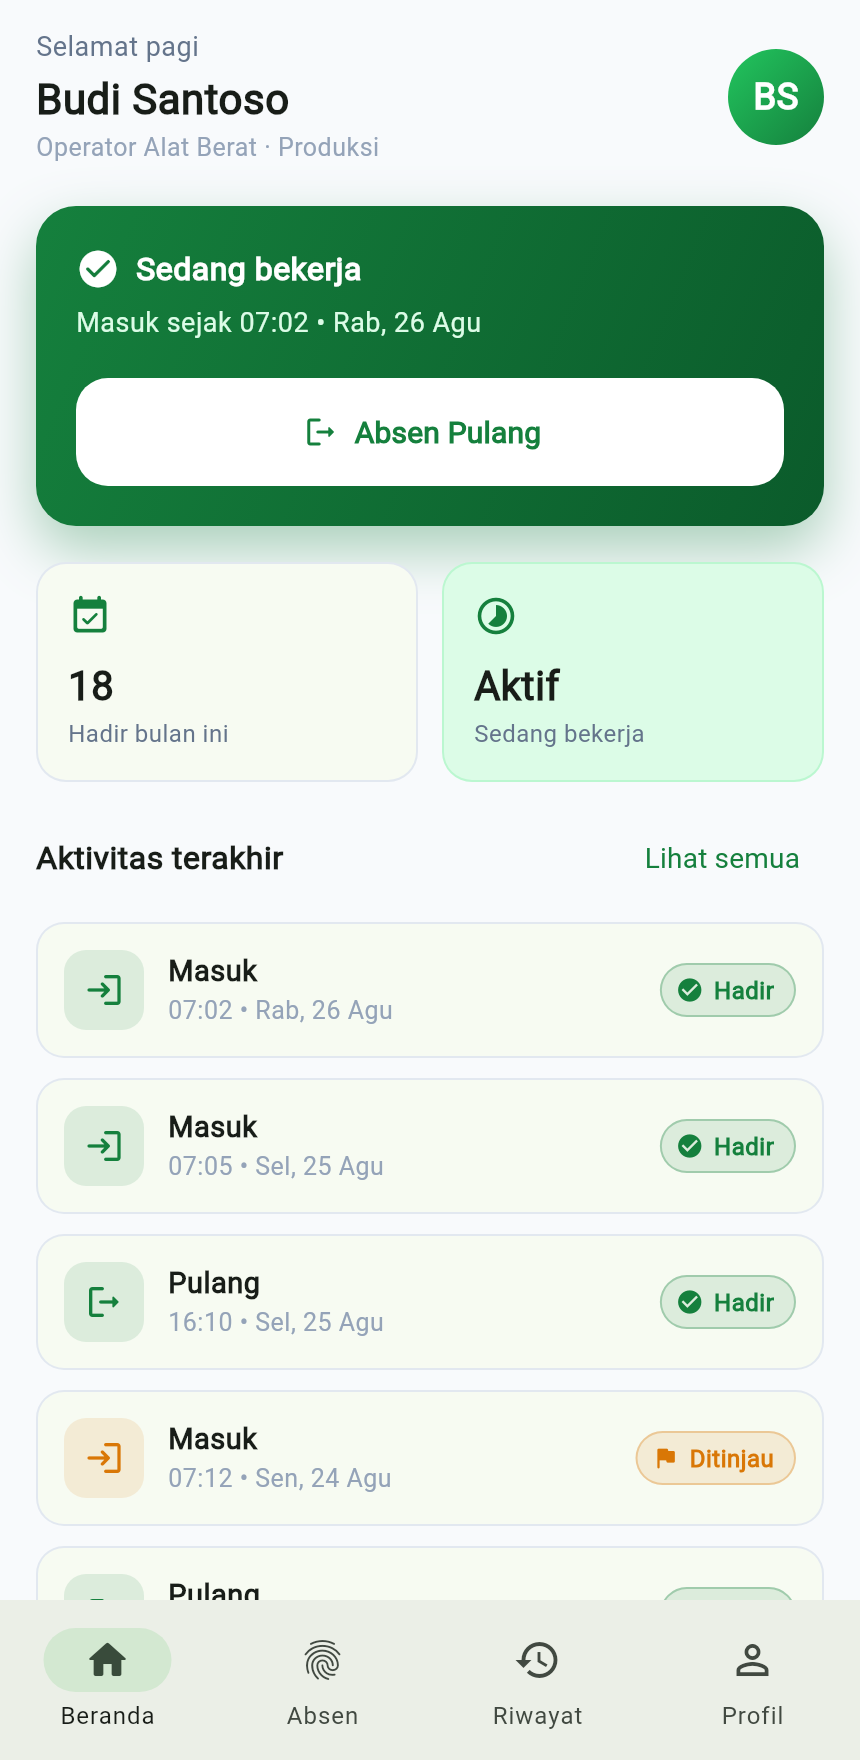
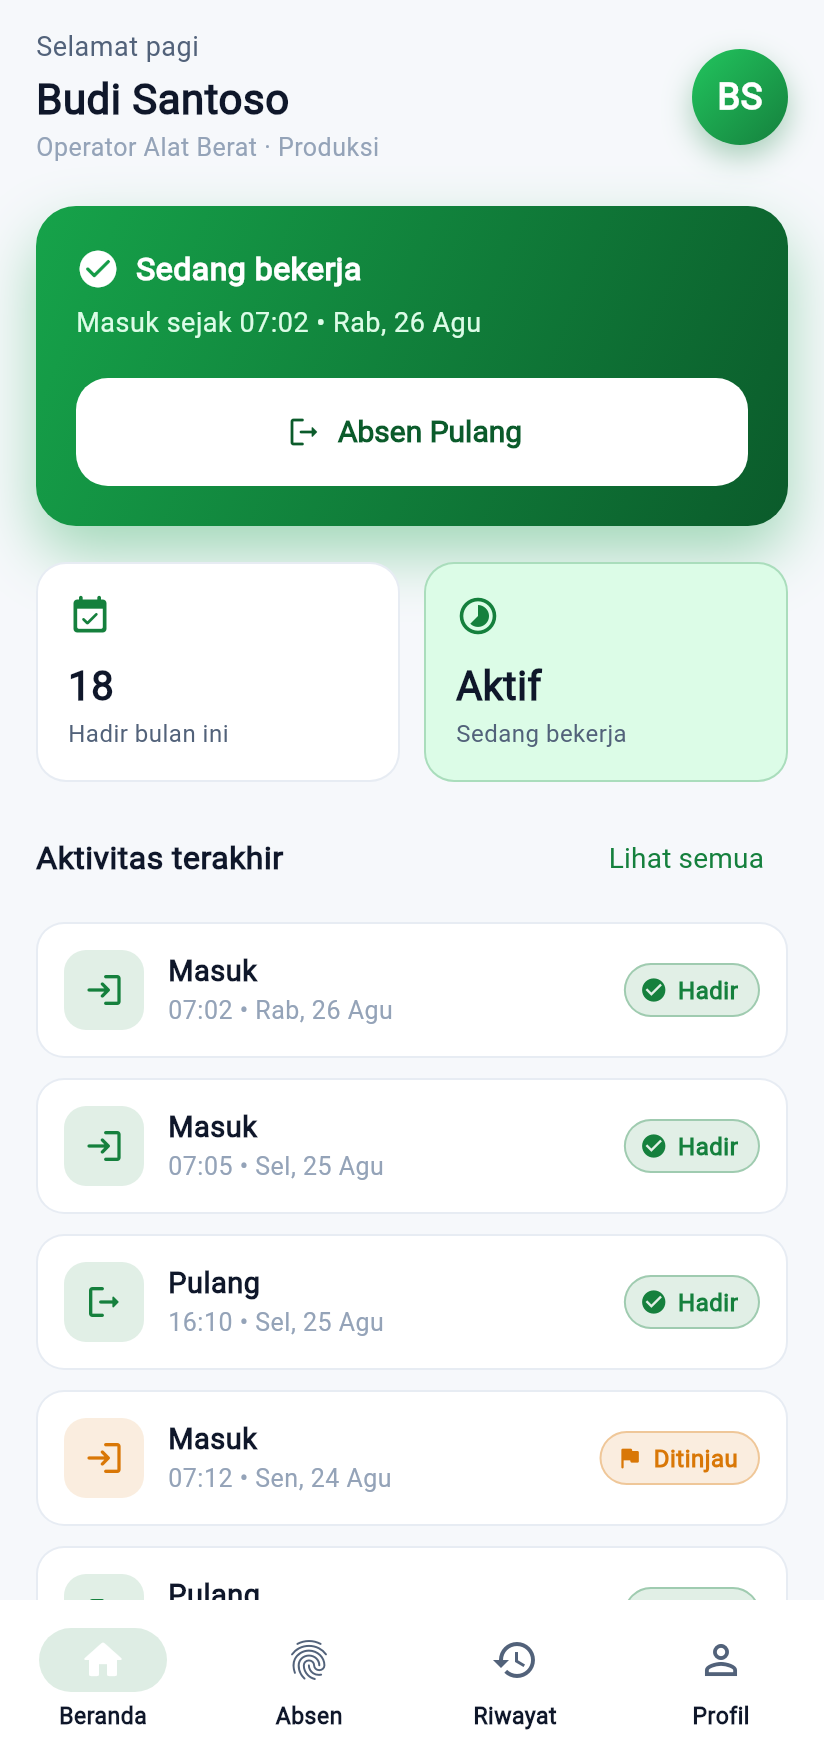
showcase: tambah section Dark Mode & Multi-bahasa (ID/EN) + screenshot dark/english; segmen brand; hero chip

diff --git a/index.html b/index.html
@@ -118,6 +118,7 @@ footer a{color:#86efac}
         <span class="chip">🏗 Laravel 12 + PostgreSQL</span>
         <span class="chip">🖥 Web Vue 3</span>
         <span class="chip">📱 Mobile Flutter</span>
+        <span class="chip">🌙 Dark mode · 🌐 ID/EN</span>
         <span class="chip">🔒 100% waktu server</span>
       </div>
     </div>
@@ -147,6 +148,22 @@ footer a{color:#86efac}
       <div class="phone"><div class="frame"><img src="img/emp-profil.png" alt="Profil & tema"></div><div class="cap"><b>Profil &amp; Tema</b><span>info, perangkat, terang/gelap</span></div></div>
     </div>
     <p class="showcase-note">Alur absen: ketuk → verifikasi wajah (liveness) → hasil. <b>Waktu ditentukan server</b>, media wajah dibungkus &amp; dikirim aman. Routing peran otomatis (karyawan vs admin/HR), sesi bertahan.</p>
+  </div>
+</section>
+
+<section style="background:linear-gradient(180deg,#04250f,#0a3d22)">
+  <div class="wrap">
+    <div class="sec-head">
+      <span class="eyebrow" style="color:#bbf7d0;background:rgba(255,255,255,.10);border-color:rgba(255,255,255,.22)">Detail Kelas Dunia</span>
+      <h2 style="color:#fff">Mode gelap istimewa &amp; dua bahasa.</h2>
+      <p style="color:#a7f3d0">Tiap layar dirancang cermat untuk terang &amp; gelap — permukaan <b style="color:#fff">navy dalam</b>, aksen <b style="color:#6ee7b7">emerald</b>. Antarmuka penuh <b style="color:#fff">Bahasa Indonesia &amp; English</b>, bisa diganti kapan saja (tanggal &amp; waktu ikut menyesuaikan).</p>
+    </div>
+    <div class="phones">
+      <div class="phone"><div class="frame"><img src="img/home-dark.png" alt="Beranda dark mode"></div><div class="cap"><b style="color:#fff">Beranda · Gelap</b><span style="color:#86efac">dark mode premium</span></div></div>
+      <div class="phone"><div class="frame"><img src="img/absen-dark.png" alt="Absen dark mode"></div><div class="cap"><b style="color:#fff">Absen · Gelap</b><span style="color:#86efac">tombol ber-glow</span></div></div>
+      <div class="phone"><div class="frame"><img src="img/profil-dark.png" alt="Profil bahasa & tema"></div><div class="cap"><b style="color:#fff">Bahasa &amp; Tema</b><span style="color:#86efac">ID/EN · Sistem/Terang/Gelap</span></div></div>
+      <div class="phone"><div class="frame"><img src="img/home-en.png" alt="Antarmuka English"></div><div class="cap"><b style="color:#fff">English</b><span style="color:#86efac">antarmuka multi-bahasa</span></div></div>
+    </div>
   </div>
 </section>
 
@@ -242,7 +259,7 @@ footer a{color:#86efac}
         <div class="road">
           <div class="step done"><span class="dot">✓</span><div><b>Backend + API</b><p>Laravel 12, model anti-curang, 207 tes lulus</p></div><span class="pill d">selesai</span></div>
           <div class="step done"><span class="dot">✓</span><div><b>Web app (Vue 3)</b><p>Portal karyawan + area admin/HR</p></div><span class="pill d">selesai</span></div>
-          <div class="step done"><span class="dot">✓</span><div><b>Mobile — fitur karyawan</b><p>Flutter: login, Beranda, Absen wajah, Riwayat, Profil &amp; tema</p></div><span class="pill d">selesai</span></div>
+          <div class="step done"><span class="dot">✓</span><div><b>Mobile — fitur karyawan</b><p>Beranda, Absen wajah, Riwayat, Profil · <b>dark mode istimewa</b> · <b>multi‑bahasa ID/EN</b></p></div><span class="pill d">selesai</span></div>
           <div class="step wip"><span class="dot">◐</span><div><b>Payroll (penggajian)</b><p>Desain lengkap (BPJS, PPh21 TER, lembur, slip)</p></div><span class="pill w">desain</span></div>
           <div class="step next"><span class="dot">→</span><div><b>Layanan ML wajah &amp; fitur admin mobile</b><p>Liveness/anti-spoofing, panel admin, laporan</p></div><span class="pill n">berikutnya</span></div>
         </div>

diff --git a/README.md b/README.md
@@ -21,7 +21,15 @@ Dibangun untuk **PT Kalimantan Tambang Mandiri** · Laravel · Vue · Flutter
 | <img src="img/emp-home.png" width="200"> | <img src="img/emp-absen.png" width="200"> | <img src="img/emp-riwayat.png" width="200"> | <img src="img/emp-profil.png" width="200"> |
 | Status hadir/bekerja + aktivitas | Verifikasi wajah + liveness | Per hari + status keputusan | Info, perangkat, terang/gelap |
 
-Alur absen 2 ketukan: **ketuk → verifikasi wajah (liveness) → hasil**. Waktu ditentukan **server**, media wajah dibungkus & dikirim aman. Satu aplikasi, **dua permukaan** (karyawan vs admin/HR) dipilih otomatis dari peran; tema hijau/putih, mode gelap, sesi bertahan.
+Alur absen 2 ketukan: **ketuk → verifikasi wajah (liveness) → hasil**. Waktu ditentukan **server**, media wajah dibungkus & dikirim aman. Satu aplikasi, **dua permukaan** (karyawan vs admin/HR) dipilih otomatis dari peran; sesi bertahan.
+
+### 🌙 Mode gelap istimewa & 🌐 dua bahasa (ID / EN)
+
+| Beranda · Gelap | Absen · Gelap | Bahasa & Tema | English |
+|:---:|:---:|:---:|:---:|
+| <img src="img/home-dark.png" width="200"> | <img src="img/absen-dark.png" width="200"> | <img src="img/profil-dark.png" width="200"> | <img src="img/home-en.png" width="200"> |
+
+Setiap layar dirancang untuk **terang & gelap** (navy dalam + aksen emerald), antarmuka penuh **Bahasa Indonesia & English** yang bisa diganti kapan saja — termasuk format tanggal & waktu.
 
 ## 🔒 Inti produk — menutup celah kecurangan absensi
 
